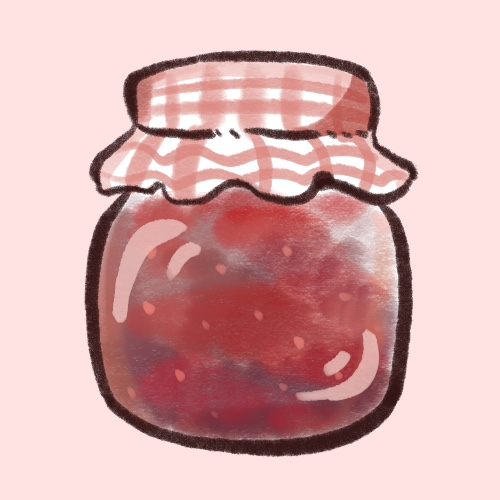
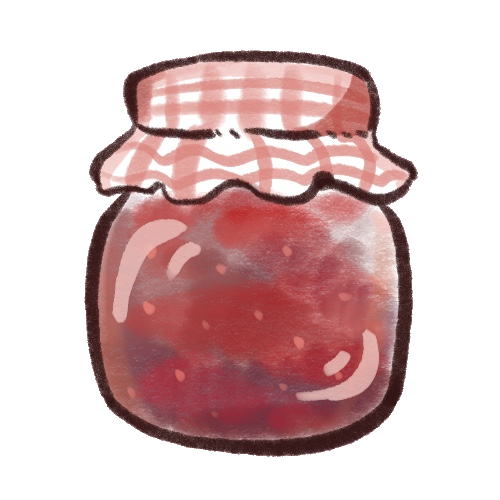
lo

diff --git a/css/style.css b/css/style.css
@@ -720,7 +720,7 @@ body::after {
     drop-shadow(0 0 14px rgba(56, 189, 248, 0.22));
 }
 
-/* Raster jam jar (reference artwork) — fade overlay keeps UI text readable on jam */
+/* Raster jam jar (reference artwork); PNG uses transparency — no overlay fade */
 .jar-raster {
   position: relative;
   display: inline-block;
@@ -738,45 +738,6 @@ body::after {
 .jar-card__art .jar-raster__img,
 .jar-preview-wrap .jar-raster__img {
   width: 100%;
-}
-
-.jar-raster__fade {
-  position: absolute;
-  inset: 0;
-  pointer-events: none;
-}
-
-.jar-raster--home .jar-raster__fade {
-  background: linear-gradient(
-    180deg,
-    rgba(255, 255, 255, 0) 0%,
-    rgba(255, 255, 255, 0) 4%,
-    rgba(255, 252, 251, 0.78) 15%,
-    rgba(255, 253, 252, 0.96) 30%,
-    rgba(255, 254, 255, 1) 100%
-  );
-}
-
-.jar-raster--list .jar-raster__fade {
-  background: linear-gradient(
-    180deg,
-    rgba(255, 255, 255, 0) 0%,
-    rgba(255, 255, 255, 0) 14%,
-    rgba(255, 252, 251, 0.45) 30%,
-    rgba(255, 253, 252, 0.88) 50%,
-    rgba(255, 254, 254, 0.98) 100%
-  );
-}
-
-.jar-raster--detail .jar-raster__fade {
-  background: linear-gradient(
-    180deg,
-    rgba(255, 255, 255, 0) 0%,
-    rgba(255, 255, 255, 0) 8%,
-    rgba(255, 252, 251, 0.55) 22%,
-    rgba(255, 253, 252, 0.9) 42%,
-    rgba(255, 254, 254, 0.97) 100%
-  );
 }
 
 .jar-hint {

diff --git a/js/app.js b/js/app.js
@@ -281,7 +281,6 @@
       '" alt="" ' +
       imgAttrs +
       " />" +
-      '<div class="jar-raster__fade" aria-hidden="true"></div>' +
       "</div>"
     );
   }
